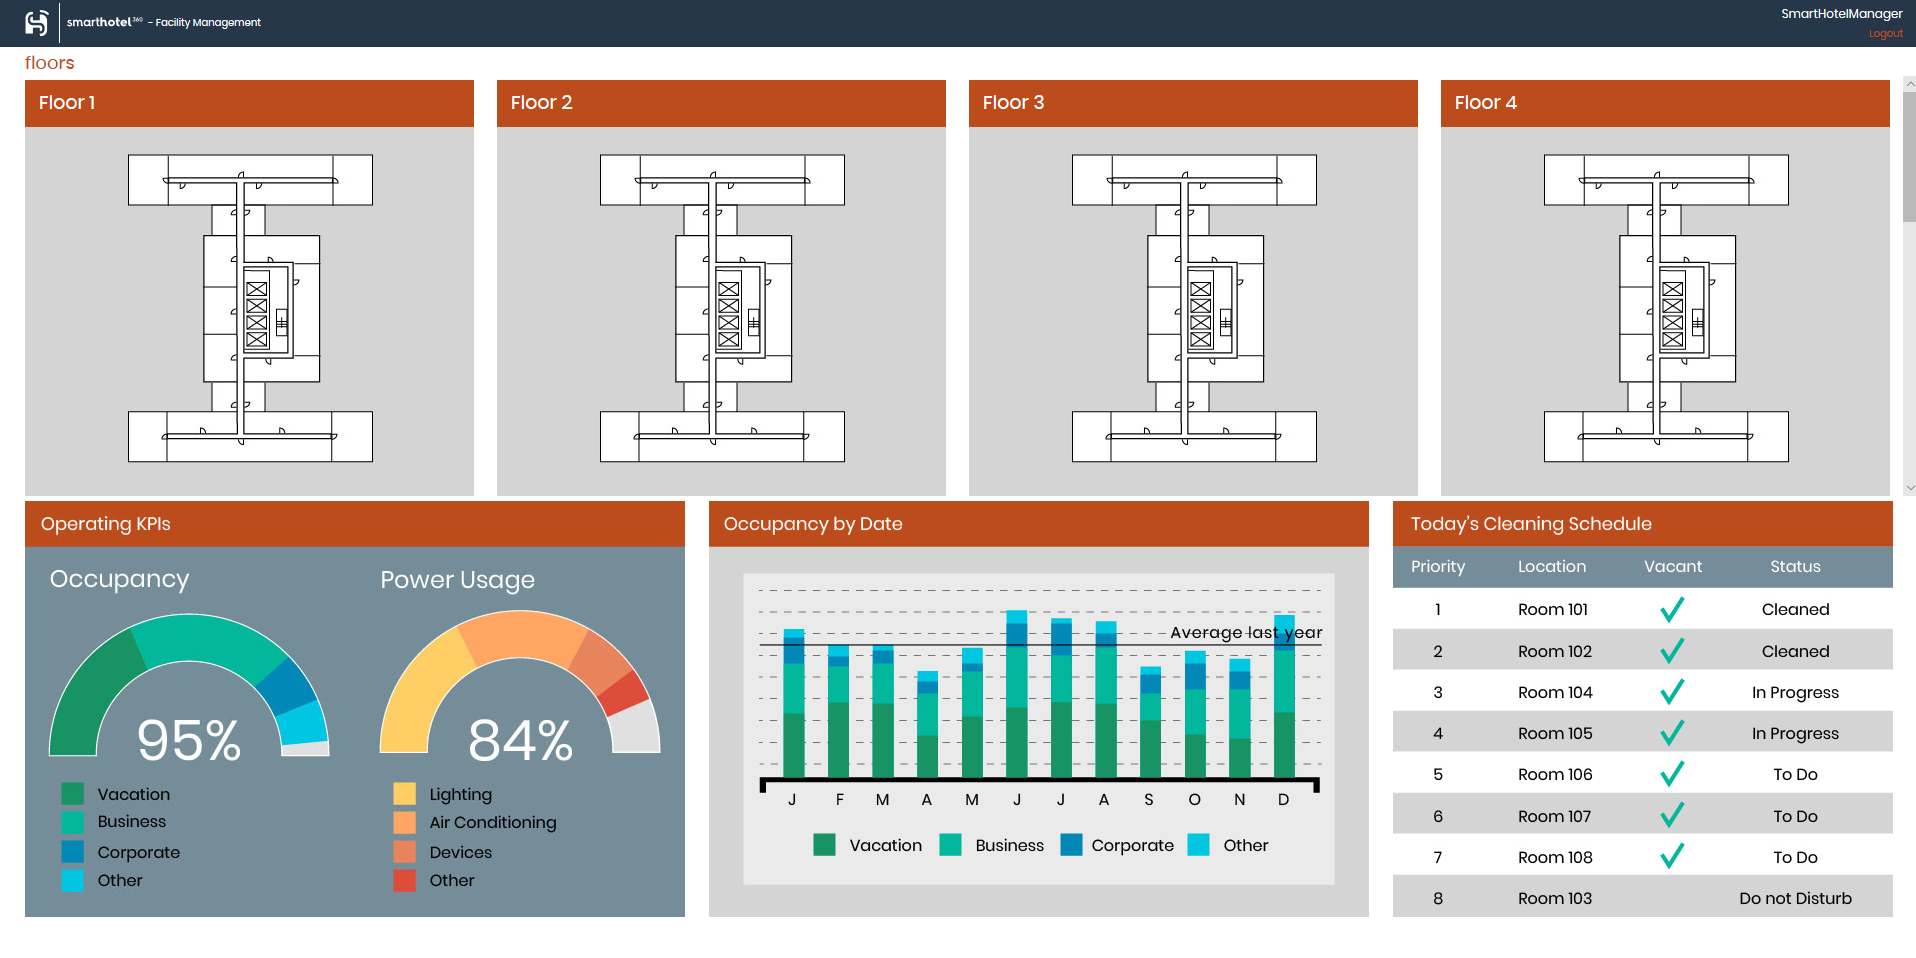
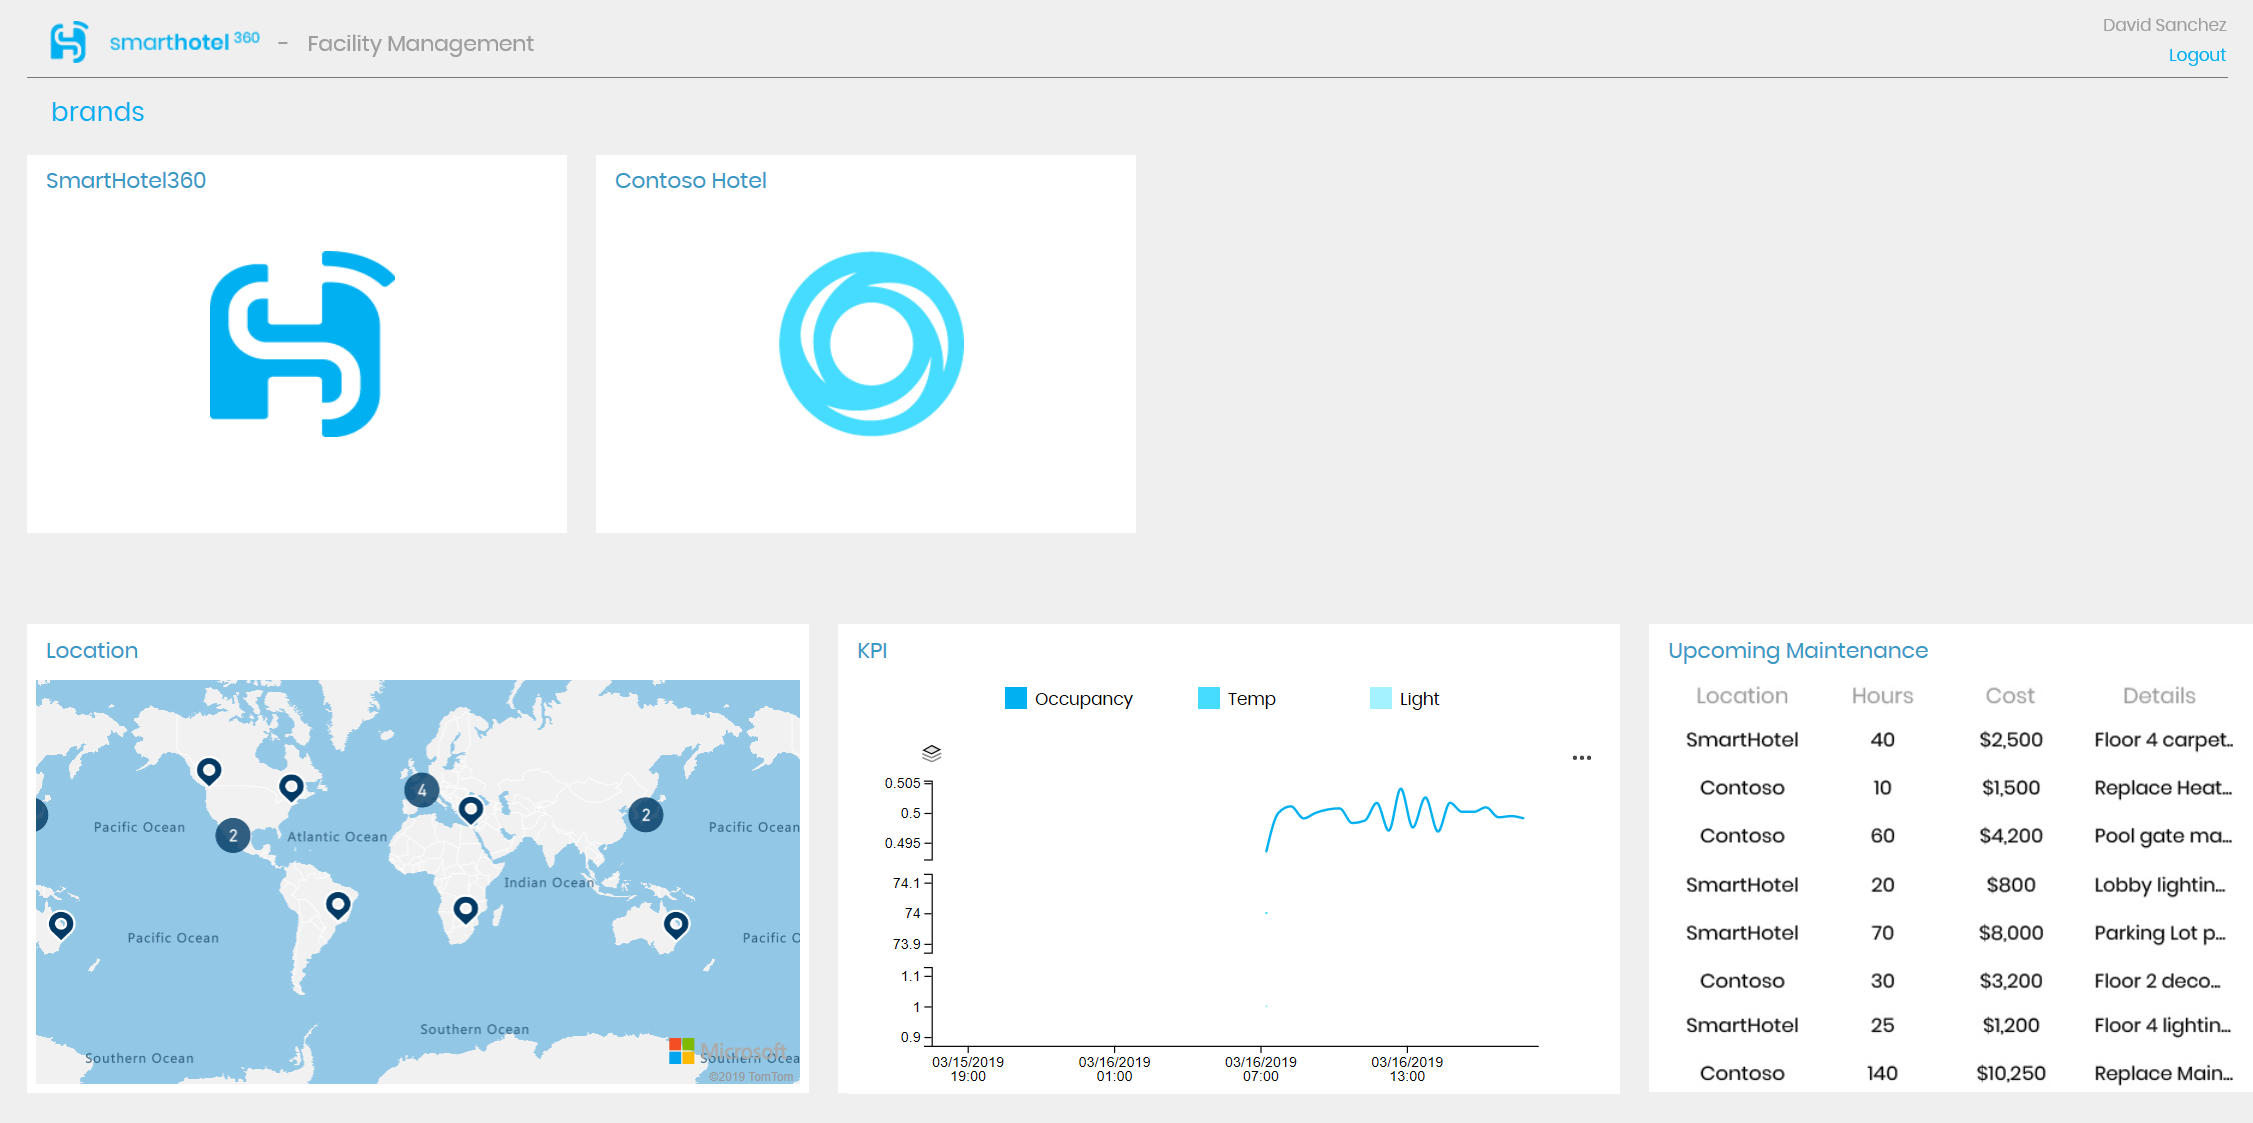
Updating demo script

diff --git a/README.md b/README.md
@@ -1,5 +1,5 @@
 # SmartHotel360
-During **Connect(); 2017** event this year we presented beautiful app demos using Xamarin and many features of Azure. For //build/ 2018's keynote, we updated some components of the back-end API code to support **Azure Kubernetes Service (AKS)**. This repository contains the setup instructions and sample code needed for the Internet of Things (IoT) Demo utilizing Digital Twins that was announced at Ignite 2018.
+During **Connect(); 2017** event this year we presented beautiful app demos using Xamarin and many features of Azure. For //build/ 2018's keynote, we updated some components of the back-end API code to support **Azure Kubernetes Service (AKS)**. This repository contains the setup instructions and sample code needed for the Internet of Things (IoT) Demo utilizing Digital Twins that was announced at **Ignite 2018**.
 
 # SmartHotel360 Repos
 For this reference app scenario, we built several consumer and line-of-business apps and an Azure backend. You can find all SmartHotel360 repos in the following locations:
@@ -18,9 +18,21 @@ Welcome to the SmartHotel360 IoT repository. Here you'll find everything you nee
 
 ![IoT Demo Architecture Diagram](Documents/Images/Architecture.png "IoT Demo Architecture")
 
+Check out our [Channel9 IoT Show Video](https://channel9.msdn.com/Shows/Internet-of-Things-Show/SmartHotel-360-a-demo-powered-by-Azure-Digital-Twins) about the SmartHotel360 Demo Powered by Digital Twnis:
+
 [![SmartHotel360 IoT Demo powered by Azure Digital Twins](https://img.youtube.com/vi/urcmaFVQnF4/0.jpg)](https://www.youtube.com/watch?v=urcmaFVQnF4)
 
-## Getting Started
+## Live Running Website
+
+We have deployed a public environment to show the end result of the website connected to the Digital Twin Solution. Please notice the sliders control will be disabled because we are using the [basic authentication mode](https://github.com/Microsoft/SmartHotel360-IoT#basic-authentication-mode).
+
+* Website: https://aka.ms/smarthotel360-FacilityManagement
+* Username: admin
+* Password: admin
+
+![](Documents/Images/SmartHotel360-FacilityManagement.gif)
+
+# Getting Started
 
 SmartHotel360 uses a **microservice oriented** architecture implemented using containers. For the IoT Demo, there are various services developed in different technologies: .NET Core 2, ASP.NET Core 2, and Angular. These services use different Azure Resources like Digital Twins, App Services, Cosmos DB, Event Hubs, Azure Functions, and IoT Hubs to name a few. The step by step walkthrough for creating and provisioning the demo can be found next in the [Setup](#Setup) section.
 
@@ -152,6 +164,12 @@ The following information parameters are required for the deployment script:
 There is a collection of parameters that are used by the deployment script that determine properties like resource location, pricing tiers, and naming. If you wish to modify any of these parameters you can edit the values in [parameters.json](./arm/parameters.json).
 
 **NOTE: In order to support the number of virtual devices required for the demo in the Kubernetes cluster, it will deploy 3 nodes. Please be aware that this can be a large cost.**
+
+The Resource Group should look like this:
+
+![](Documents/Images/AzurePortal.png)
+
+> Note: Due the amount of resources of this demo the consumption of Azure is around $200 approximately per month with three nodes on the AKS cluster. Depending on the Azure region with the default paramenters.
 
 ### Demo Provisioning Info
 This demo only creates active devices in 1 hotel (SmartHotel360 -> SH360 Elite 1) to reduce the deployment time as well as cost in Azure.
@@ -331,11 +349,9 @@ To set up an MXChip as one of our room devices, follow the instructions from [Ge
 * The instructions from the **Serial monitor usage** section and beyond can be ignored.
 * Once the sketch code is successfully deployed to the MXChip, it will automatically run anytime it is powered.
 
-### Compilation and Deployment
-You may see a large number of warnings when the code is compiled (or uploaded). As long as you don't encounter an error, these can be ignored.
-* **If you receive a fatal error stating that a header file (a .h file) could not be found simply try again. These errors seem to pop up accasionally for no apparent reason.**
+>Note: If you receive a fatal error stating that a header file (a .h file) could not be found simply try again.
 
-### Demo
+### MXChip Demo
 For this demo we are utilizing a number of the built in sensors/components of the device.
 
 * Temperature

diff --git a/Documents/DemoScript/Readme.md b/Documents/DemoScript/Readme.md
@@ -14,7 +14,7 @@ The key takeaways of this demo are:
 
 ## Before you begin
 
-You will need to have provisioned a demo environment following the **[setup guide](https://github.com/Microsoft/SmartHotel360-IoT#setup)** with the **[Xamarin Mobile app](https://github.com/Microsoft/SmartHotel360-Mobile#iot-demo)** configured.
+You will need to have provisioned a demo environment following the **[setup guide](https://github.com/Microsoft/SmartHotel360-IoT#setup)** with the **[Xamarin Mobile app](https://github.com/Microsoft/SmartHotel360-Mobile#iot-demo)** configured. Optionally you can configure the MXChip device but it is not required for this demo script.
 
 ## Walkthrough: Facility Management Website
 
@@ -22,7 +22,9 @@ You will need to have provisioned a demo environment following the **[setup guid
 
 ![](Images/LoginPage.png)
 
-2. The SmartHotel360 Manager needs to make sure that everything is functioning properly from an operational standpoint, optimize efficiency of the hotels and ensure that occupants are having the best experience possible at the SmartHotel360.
+2. The SmartHotel360 Manager needs to make sure that everything is functioning properly from an operational standpoint, optimize efficiency of the hotels and ensure that occupants are having the best experience possible at the SmartHotel360 or other Hotel Brands that has access.
+
+![](Images/HomePage.png)
 
 They also can see various operational data points that can help drive more informed decision-making. Concretely, they can see:
 
@@ -30,16 +32,21 @@ They also can see various operational data points that can help drive more infor
 * Location information of the hotels.
 * Scheduled maintenance and upcoming maintenance.
 
-![](Images/HomePage.png)
+![](Images/HotelSelection.png)
 
-3. Click on Floor 1, the facility manager can now access the specific rooms that make up the first floor with live data points being retrieved from the individual spaces themselves.
-In this case, SmartHotel360 has populated the rooms with three key indicators:
+3. Click on **Elite 1**, the facility manager can now access the floors of the SmartHotel360 Elite 1 Hotel:
 
-* Whether it’s currently occupied or vacant.
-* The current temperature in the room.
-* The current lighting in the room.
+![](Images/FloorSelection.png)
+
+Let's select the **Floor 1** with live data points being retrieved from the individual spaces themselves.
 
 ![](Images/Floor1.png)
+
+In this case, SmartHotel360 has populated the rooms with three key indicators:
+
+* Whether it’s currently **occupied** or **vacant**.
+* The current and desired **temperature** in the **room**.
+* The current and desired **lighting** in the room.
 
 The Hotel personnel, depending on the access and permissions granted to them, can also use this data to improve occupant experience by ensuring that the comfort levels are aligned to the preferences of the occupant.
 
@@ -50,6 +57,8 @@ With the Twin Object Models feature that exists in Azure Digital Twins, organiza
 So customers can more accurately reflect the amenities and characteristics of these rooms in their **Azure Digital Twins** instance.
 
 4. Let's focus on the **room 101** supposing a new guest asked us to set the temperature to 65° F and the lights to 100% brightness. Change the values using the slider.
+
+![](Images/Room101.png)
 
 ## Walkthrough: Occupant Experience
 
@@ -83,8 +92,6 @@ Password: 1234
 ![](Images/AmbientSettings.png)
 
 6. Here you can change the values for **lights** and **temperature** and those values will reflect on the **Facility Management** website.
-
-![](Images/MatchValues.png)
 
 ## Summary
 
